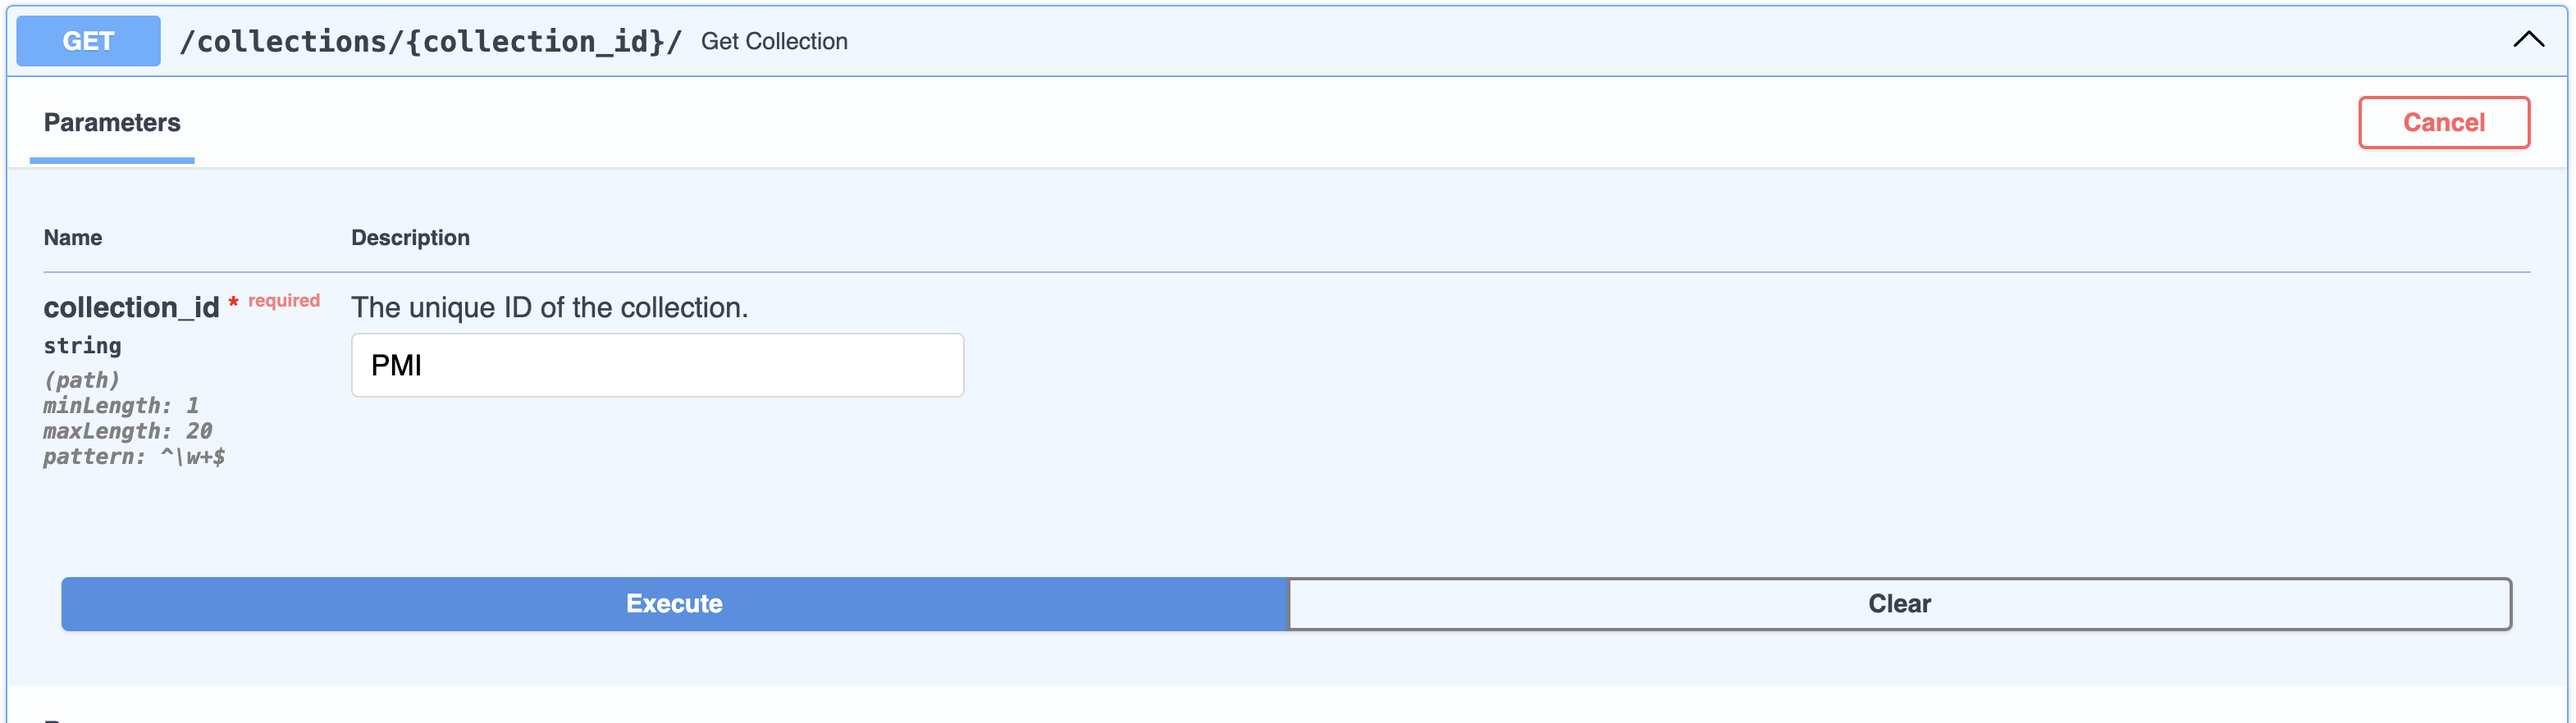
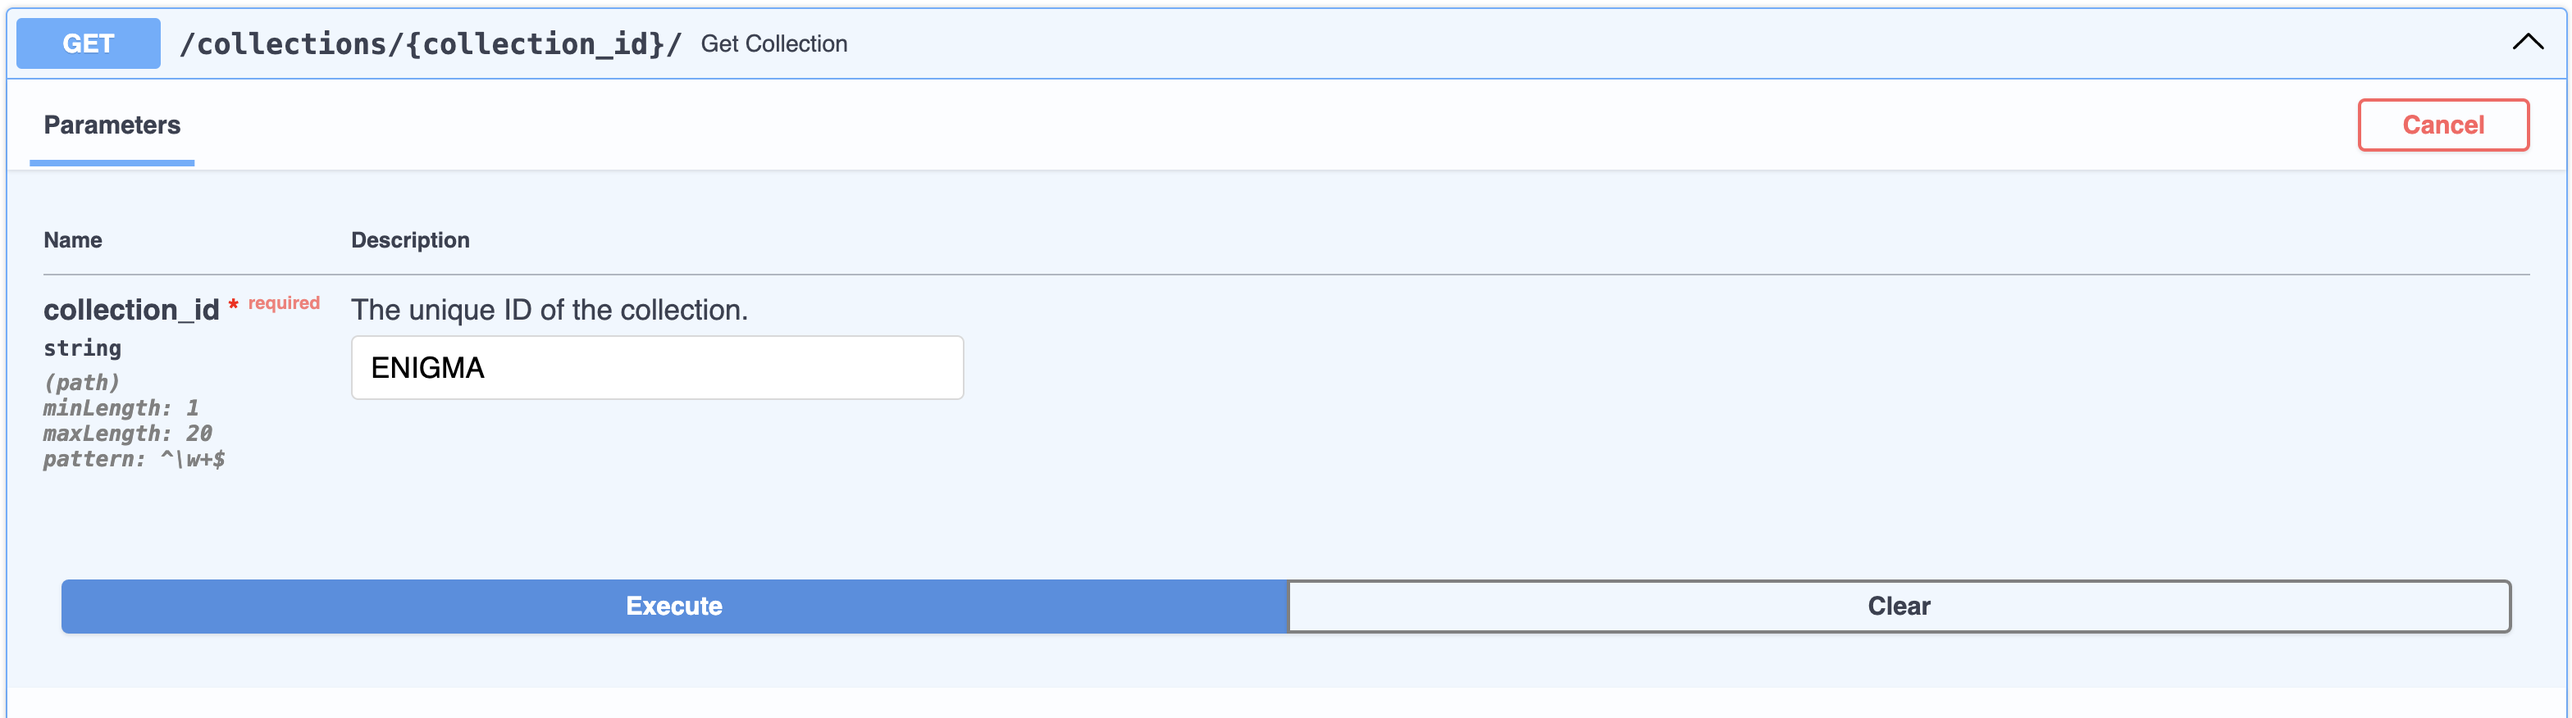
using engma as example acress the doc

diff --git a/docs/genome_to_collection.md b/docs/genome_to_collection.md
@@ -25,9 +25,9 @@ the Genome objects from the KBase workspace to NERSC. The following command faci
 
 ```commandline
 # update arguments as needed
-workspace_id=69739
-kbase_collection=ENIGMA
-source_verion=2023.10
+workspace_id=69278
+kbase_collection=PMI
+source_verion=2023.09
 env=CI
 token_filepath=path/to/token_file.txt  # This is a single-line file with the KBase token 
 
@@ -200,17 +200,12 @@ from the currently activated collection by using the `get_collection` endpoint.
 **example return**
 ```commandline
 {
-  "name": "Plant Microbe Interfaces",
+  "name": "ENIGMA",
   "ver_src": "2023.11",
-  "desc": "The goal of the Plant-Microbe Interfaces SFA is to gain a deeper understanding of the diversity and functioning of mutually beneficial interactions between plants and microbes in the rhizosphere.",
-  "icon_url": "https://ci.kbase.us/services/shock-api/node/674c4e6b-851f-4ee2-ad5a-35effeb8cd68/?download_raw",
-  "attribution": "This collection was contributed by the Plant Microbe Interfaces (PMI) Science Focus Area (SFA). For more details, see [TODO: FAIR Narrative doi], and https://www.kbase.us/research/doktycz-sfa.\n\nKBase will automatically cite any data from this collection used in a Narrative. If you would like to acknowledge the collection, please copy the text below:\n\nThe authors would like to acknowledge the KBase collection, PMI, supported by the Genomic Science Program, U.S. Department of Energy, Office of Science, Biological and Environmental Research at Oak Ridge National Laboratory under contract DE-AC05-00OR22725, for sharing their data at https://ci-europa.kbase.us/collections/PMI.",
+  "desc": "Ecosystems and Networks Integrated with Genes and Molecular Assemblies",
+  "icon_url": "https://ci.kbase.us/services/shock-api/node/9af1c606-724a-4a63-ab64-8191a89dd462/?download_raw",
+  "attribution": "This collection was contributed by the Ecosystems and Networks Integrated with Genes and Molecular Assemblies (ENIGMA) Science Focus Area (SFA). For more details, see [FAIR Narrative doi], and https://www.kbase.us/research/adams-sfa.\nKBase will automatically cite any data from this collection used in a Narrative. If you would like to acknowledge the collection, please copy the text below:\nThe authors would like to acknowledge the KBase collection, ENIGMA, supported by Genomic Science Program, U.S. Department of Energy, Office of Science, Biological and Environmental Research under Contract No. [###], for sharing their data at https://ci-europa.kbase.us/collections/GROW",
   "data_products": [
-    {
-      "product": "biolog",
-      "version": "2023.11",
-      "search_view": null
-    },
     {
       "product": "genome_attribs",
       "version": "2023.11",
@@ -220,6 +215,11 @@ from the currently activated collection by using the `get_collection` endpoint.
       "product": "microtrait",
       "version": "2023.11",
       "search_view": null
+    },
+    {
+      "product": "samples",
+      "version": "2023.11",
+      "search_view": "samples_0bd4242"
     },
     {
       "product": "taxa_count",
@@ -241,18 +241,18 @@ from the currently activated collection by using the `get_collection` endpoint.
       "matcher": "minhash_homology",
       "parameters": {
         "service_wizard_url": "https://ci.kbase.us/services/service_wizard",
-        "sketch_database_name": "Collections_CI_PMI2023_11"
+        "sketch_database_name": "Collections_CI_ENIGMA2023_11"
       }
     }
   ],
   "default_select": "genome_attribs",
   "metadata": null,
-  "id": "PMI",
-  "ver_tag": "2023.11_r5",
-  "ver_num": 14,
-  "date_create": "2024-01-12T16:17:21.213453+00:00",
+  "id": "ENIGMA",
+  "ver_tag": "2023.11_r9",
+  "ver_num": 13,
+  "date_create": "2024-01-31T03:22:34.785596+00:00",
   "user_create": "tgu2",
-  "date_active": "2024-01-12T16:17:41.694010+00:00",
+  "date_active": "2024-01-31T03:22:49.149964+00:00",
   "user_active": "tgu2"
 }
 ```
